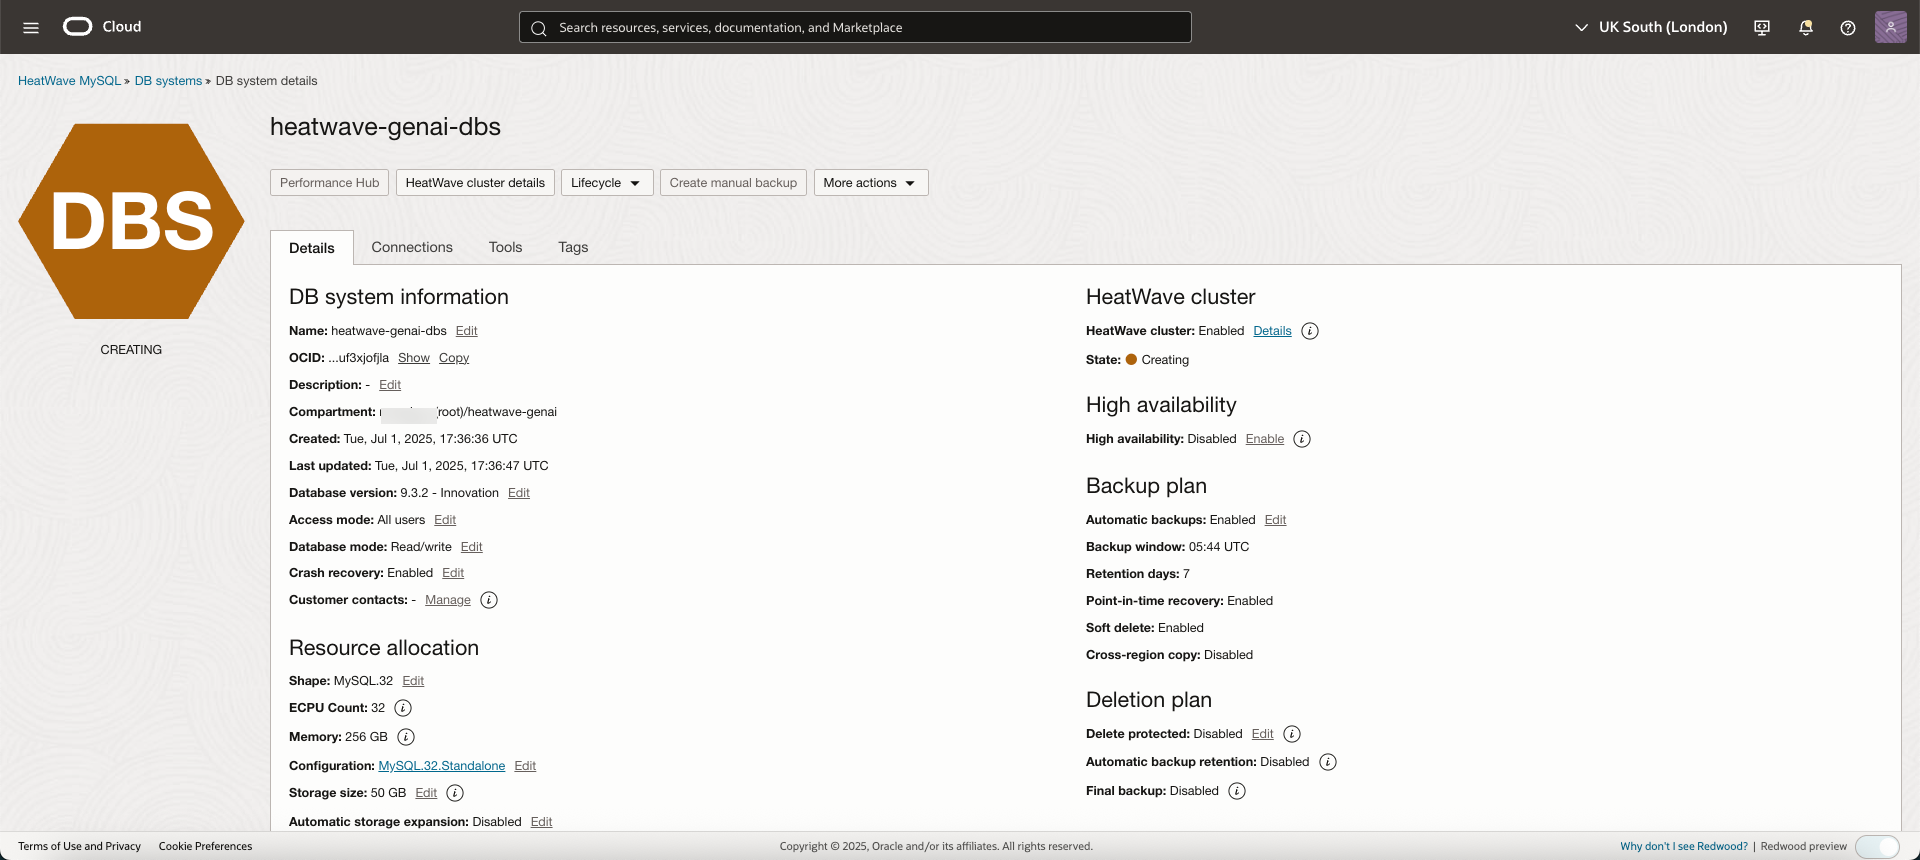
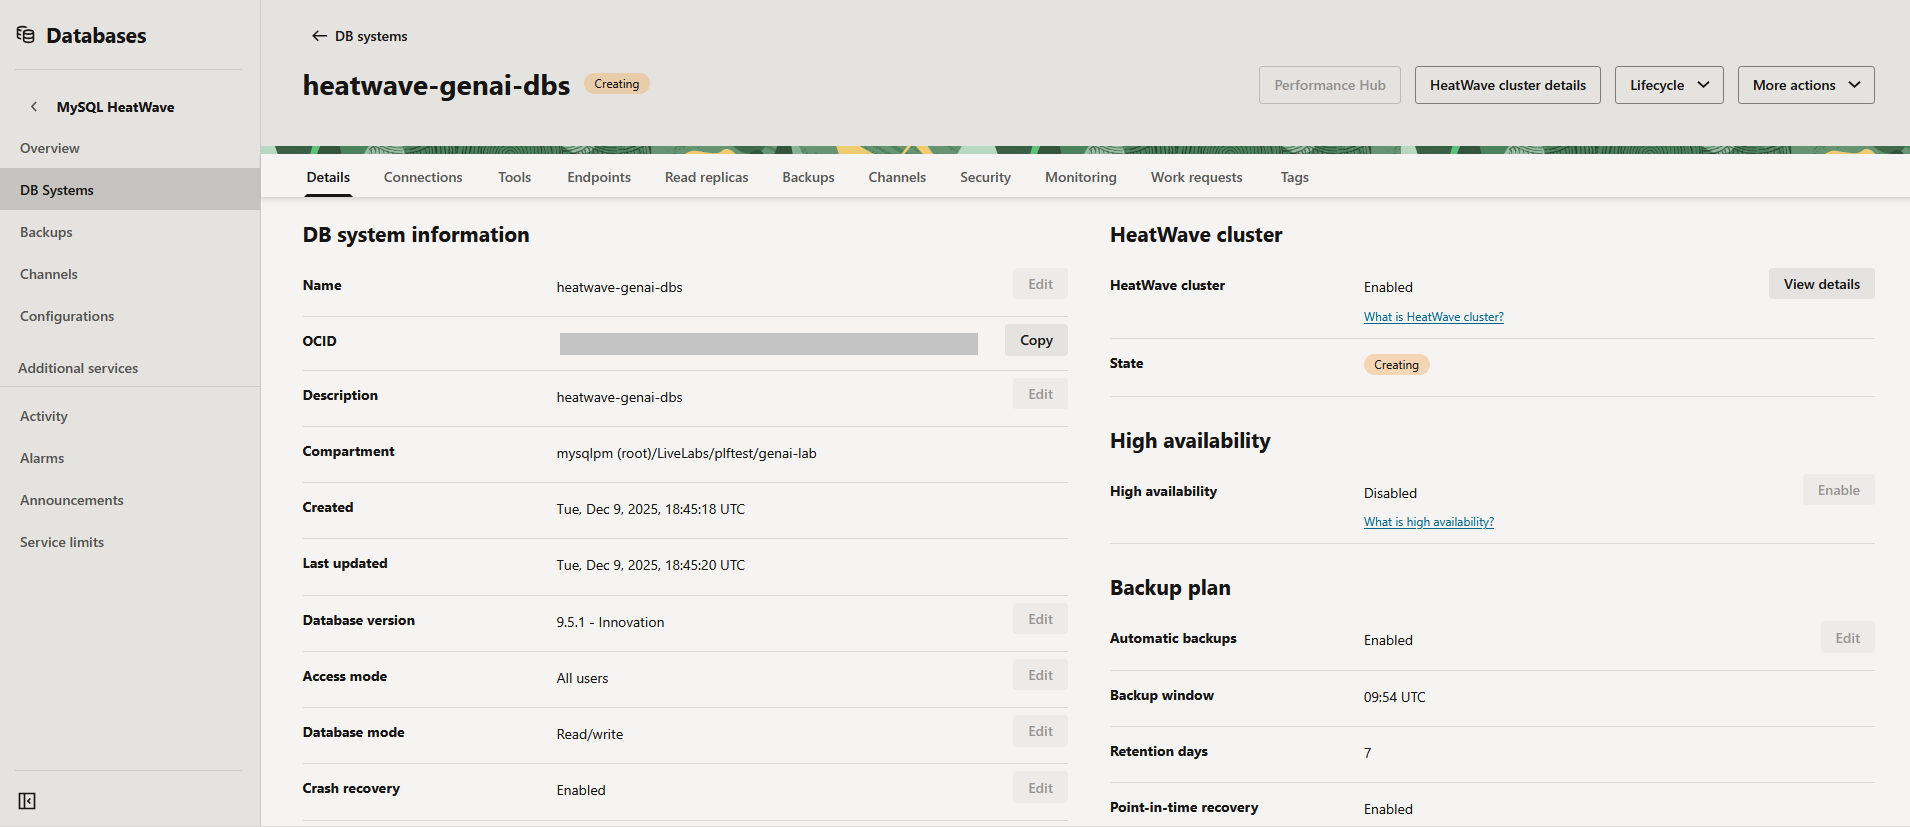
Updated

diff --git a/create-heatwave/create-heatwave.md b/create-heatwave/create-heatwave.md
@@ -12,8 +12,8 @@ In this lab, you will be guided through the following tasks:
 
 - Create compartment.
 - Create Virtual Cloud Network.
-- Configure security list to allow incoming connections.
-- Configure security list to allow HTTP incoming connections.
+- Configure security list to allow MySQL connections.
+- Configure security list to allow HTTP connections.
 - Create a HeatWave instance.
 
 ### Prerequisites
@@ -178,6 +178,14 @@ In this lab, you will be guided through the following tasks:
 
 5. Enter the administrator credentials. *Note* the administrator credentials as you will need them to connect to the DB system. 
 
+  **administrator**:
+
+    ```bash
+    <copy>admin</copy>
+    ```
+    **password**: *your own value*
+
+
     ![HeatWave DB system details](./images/22-create-dbs-admin.png "HeatWave DB system details")
 
 6. Select **Standalone** instance, and select the VCN, **heatwave-genai-vcn**, and private subnet, **private subnet-heatwave-genai-vcn**, which you created earlier.
@@ -187,6 +195,13 @@ In this lab, you will be guided through the following tasks:
 7. Let the **Configure placement** settings remain as is.
 
 8. Under **Configure hardware**, select **Enable HeatWave cluster**, and click **Change shape**.
+
+    **HeatWave Configure hardware**
+    - DB System Shape: MySQL.32
+    - HeatWave Cluster: HeatWave.512
+    - Database version: 9.5.1-Innovation  or higher version.
+
+
 
    ![Change shape](./images/24-change-shape.png "Change shape")
 
@@ -212,7 +227,7 @@ In this lab, you will be guided through the following tasks:
 
 14. Click **Show advanced options**.
 
-15. Go to the **Configuration** tab, and under **Database version**, select version **9.0.0 - Innovation** or higher version.
+15. Go to the **Configuration** tab, and under **Database version**, select version **9.5.1 - Innovation** or higher version.
 
     ![Select database innovation version](./images/31-innovation-version.png "Select database innovation version")
 

diff --git a/generate-content/generate-content.md b/generate-content/generate-content.md
@@ -25,7 +25,7 @@ In this lab, you will be guided through the following task:
     - To load mistral-7b-instruct-v1 model:
 
         ```bash
-        <copy>call sys.ML_MODEL_LOAD('mistral-7b-instruct-v1', NULL);</copy>
+        <copy>call sys.ML_MODEL_LOAD('mistral-7b-instruct-v3', NULL);</copy>
         ```
 
         ![Load LLMs](./images/1-load-llm.png "Load LLMs")
